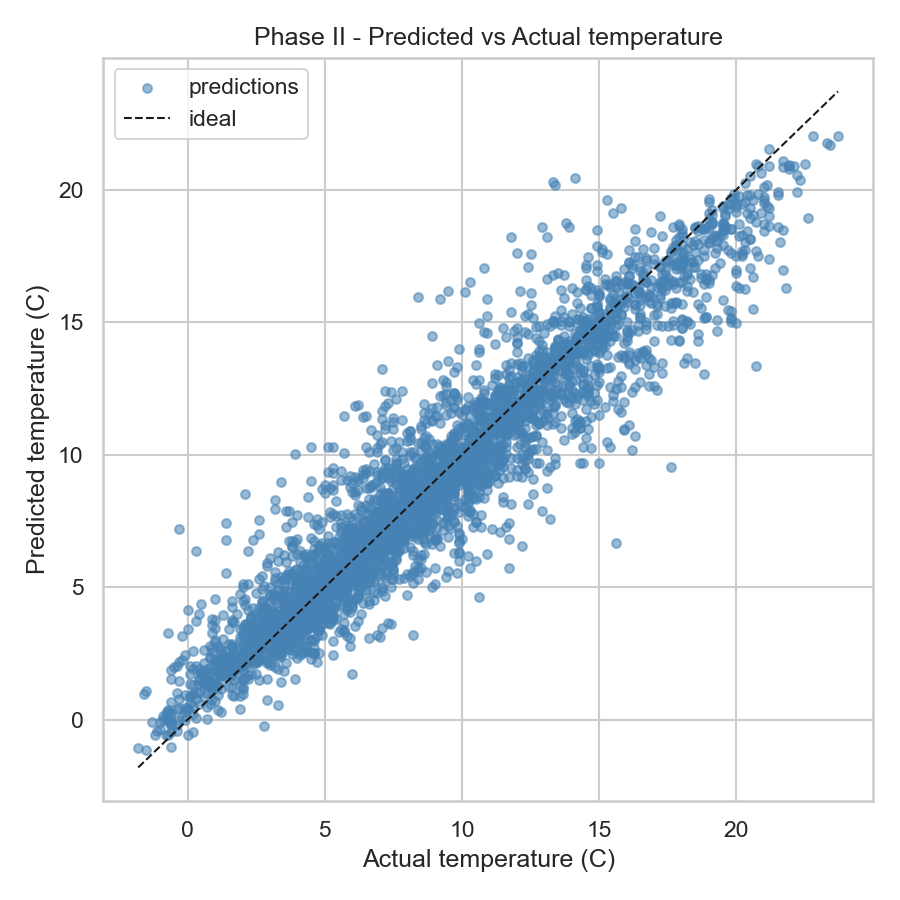
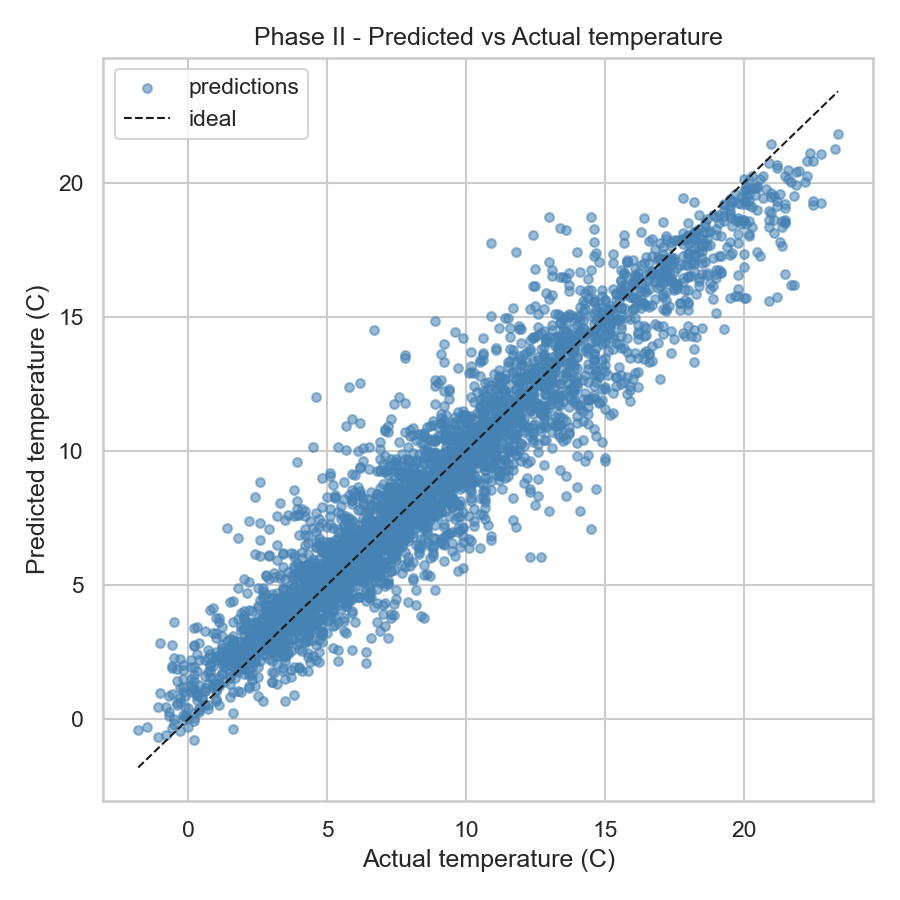
Last Updates

diff --git a/phase2_model_training.py b/phase2_model_training.py
@@ -37,18 +37,8 @@ log("=" * 70)
 df = pd.read_csv(DATA_PATH)
 df["datetime"] = pd.to_datetime(df["datetime"])
 
-df = df.rename(columns={
-    "temperature_2m":      "temperature",
-    "relative_humidity_2m": "humidity",
-    "surface_pressure":    "pressure",
-    "wind_speed_10m":      "wind_speed",
-    "wind_direction_10m":  "wind_deg",
-    "cloud_cover":         "clouds",
-    "precipitation":       "pop",
-})
-
-df = df.dropna(subset=["temperature", "humidity", "pressure"]).reset_index(drop=True)
-df["pop"] = df["pop"].fillna(0.0)
+df = df.dropna(subset=["temperature_2m", "relative_humidity_2m", "surface_pressure"]).reset_index(drop=True)
+df["precipitation"] = df["precipitation"].fillna(0.0)
 
 df["hour_sin"]  = np.sin(2 * np.pi * df["hour"]  / 24.0)
 df["hour_cos"]  = np.cos(2 * np.pi * df["hour"]  / 24.0)
@@ -56,18 +46,18 @@ df["month_sin"] = np.sin(2 * np.pi * df["month"] / 12.0)
 df["month_cos"] = np.cos(2 * np.pi * df["month"] / 12.0)
 
 FEATURES = [
-    "humidity", "pressure", "wind_speed", "wind_deg",
-    "clouds", "pop",
+    "relative_humidity_2m", "surface_pressure", "wind_speed_10m", "wind_direction_10m",
+    "cloud_cover", "precipitation",
     "hour_sin", "hour_cos", "month_sin", "month_cos",
 ]
-TARGET = "temperature"
+TARGET = "temperature_2m"
 
 log(f"Rows after cleaning : {len(df)}")
 log(f"Features ({len(FEATURES)})       : {FEATURES}")
 log(f"Target              : {TARGET} (deg C)")
 
-corr_cols = ["temperature", "humidity", "pressure", "wind_speed",
-             "clouds", "pop"]
+corr_cols = ["temperature_2m", "relative_humidity_2m", "surface_pressure", "wind_speed_10m",
+             "cloud_cover", "precipitation"]
 corr = df[corr_cols].corr()
 
 plt.figure(figsize=(7, 5))
@@ -78,7 +68,7 @@ plt.savefig(os.path.join(REPORTS_DIR, "phase2_correlation_heatmap.png"), dpi=150
 plt.close()
 
 log("\nStrongest absolute correlations with temperature:")
-log(corr["temperature"].drop("temperature").abs().sort_values(ascending=False).to_string())
+log(corr["temperature_2m"].drop("temperature_2m").abs().sort_values(ascending=False).to_string())
 
 X = df[FEATURES].values
 y = df[TARGET].values

diff --git a/weather_data_scraper.py b/weather_data_scraper.py
@@ -33,8 +33,6 @@ def get_resilient_session():
     return session
 
 def fetch_historical_weather():
-    # Open-Meteo Archive (ERA5) lags ~1 day behind real time, so we shift the
-    # end date back by 2 days to stay safely inside the allowed range.
     end_date = datetime.now().date() - timedelta(days=2)
     start_date = end_date - timedelta(days=31)
 
@@ -71,7 +69,6 @@ def fetch_historical_weather():
     if all_city_dataframes:
         df_final = pd.concat(all_city_dataframes, ignore_index=True)
 
-        # Cleanup
         df_final.rename(columns={'time': 'datetime'}, inplace=True)
         df_final['datetime'] = pd.to_datetime(df_final['datetime'])
         df_final["hour"] = df_final["datetime"].dt.hour
@@ -79,12 +76,17 @@ def fetch_historical_weather():
         df_final["month"] = df_final["datetime"].dt.month
         df_final["year"] = df_final["datetime"].dt.year
 
-        df_final = df_final.head(30000)
+        df_final = df_final.sort_values(["city", "datetime"]).reset_index(drop=True)
+        df_final = df_final.drop_duplicates(subset=["city", "datetime"]).reset_index(drop=True)
+
+        null_total = int(df_final.isna().sum().sum())
+        if null_total > 0:
+            logging.warning(f"Dataset contains {null_total} NaN cells — Phase II will apply defensive dropna/fillna.")
 
         file_name = "kosovo_weather_dataset.csv"
         df_final.to_csv(file_name, index=False)
-        
-        logging.info(f"✅ Success! Exact rows to {file_name}.")
+
+        logging.info(f"Saved {len(df_final)} rows to {file_name}.")
     else:
         logging.error("No data extracted.")
 

diff --git a/README.md b/README.md
@@ -43,7 +43,7 @@ A Machine Learning project that builds a complete, reproducible pipeline — fro
 
 | Phase | Title | Status |
 |-------|-------|--------|
-| I  | **Model Preparation** — data collection, cleaning, EDA, task definition | Completed |
+| I  | **Model Preparation** — data collection, cleaning, task definition | Completed |
 | II | **Model Training** — train a single supervised algorithm | Completed |
 | III | **Analysis and Evaluation** — evaluate, re-train, improve | Planned |
 
@@ -131,14 +131,12 @@ reports/
 
 `datetime`, `temperature_2m`, `relative_humidity_2m`, `apparent_temperature`, `precipitation`, `surface_pressure`, `cloud_cover`, `wind_speed_10m`, `wind_direction_10m`, `city`, `hour`, `day`, `month`, `year`.
 
-> During Phase II the meteorological columns are renamed to shorter canonical names used by the model pipeline: `temperature_2m` → `temperature`, `relative_humidity_2m` → `humidity`, `surface_pressure` → `pressure`, `wind_speed_10m` → `wind_speed`, `wind_direction_10m` → `wind_deg`, `cloud_cover` → `clouds`, `precipitation` → `pop`.
-
 ---
 
 ## About the Project
 
 ### The problem
-Accurate short-term temperature forecasts are essential for agriculture planning, energy demand prediction, public-health advisories, and daily citizen decisions. Commercial weather services provide generic forecasts, but **small, region-specific models tuned on local data** often capture micro-climatic behaviour (e.g. the urban-heat-island effect in Pristina, or the cooler mountain valleys around Dragash) more faithfully than global models.
+Accurate short-term temperature forecasts are essential for agriculture planning, energy demand prediction, public-health advisories, and daily citizen decisions. Commercial weather services provide generic forecasts, but **small, region-specific models tuned on local data** often capture micro-climatic behaviour more faithfully than global models.
 
 ### The idea
 Build a **supervised Machine-Learning pipeline** that ingests real meteorological data from the [Open-Meteo Archive API](https://open-meteo.com/en/docs/historical-weather-api) for all 27 municipalities of Kosovo and learns to **predict the air temperature** (°C) from other observable variables — humidity, pressure, wind speed, cloud coverage, precipitation, and the time of day.
@@ -166,7 +164,8 @@ Phase I lays the foundation of the whole project: **collecting, structuring, and
    - queries the `archive-api.open-meteo.com/v1/archive` endpoint for the last ~31 days,
    - requests hourly `temperature_2m`, `relative_humidity_2m`, `apparent_temperature`, `precipitation`, `surface_pressure`, `cloud_cover`, `wind_speed_10m`, `wind_direction_10m` (timezone `Europe/Belgrade`).
 4. **Persistence to CSV** as [`kosovo_weather_dataset.csv`](kosovo_weather_dataset.csv), automatically appending the columns `hour`, `day`, `month`, and `year` for temporal analysis.
-5. **Integrity verification** (no duplicates, no empty rows in the primary target columns — the dataset ships with **zero NaN** across all 14 columns).
+5. **Preprocessing inside the scraper** — deterministic sort by `(city, datetime)`, `drop_duplicates` on the `(city, datetime)` primary key, and a logged NaN count (see §Preprocessing Performed in Phase I below for the full list).
+6. **Integrity verification** — the dataset ships with **zero duplicates and zero NaN** across all 14 columns.
 
 ## Defined Machine-Learning Tasks
 
@@ -174,10 +173,8 @@ The dataset built in this phase is designed to support two main ML tasks across 
 
 | # | Task | Type | Target (output) | Main input features |
 |---|------|------|-----------------|---------------------|
-| 1 | Temperature forecasting | **Regression (supervised)** | `temperature` (°C, numeric) | humidity, pressure, clouds, wind_speed, cyclic time |
-| 2 | Sequential time-series forecasting | Time-series (future work) | `temperature[t+1]` | lagged multi-hour windows per city |
-
-> Note: the previous "weather-state classification" task depended on a categorical `weather` column produced by OpenWeatherMap. Open-Meteo's archive endpoint does not return that field, so that task has been dropped in favour of a single well-defined regression problem.
+| 1 | Temperature forecasting | **Regression (supervised)** | `temperature_2m` (°C, numeric) | `relative_humidity_2m`, `surface_pressure`, `cloud_cover`, `wind_speed_10m`, cyclic time |
+| 2 | Sequential time-series forecasting | Time-series (future work) | `temperature_2m[t+1]` | lagged multi-hour windows per city |
 
 ## Attribute Types
 
@@ -203,8 +200,6 @@ Out of 14 total columns, the structural split is:
 | `cloud_cover` (%) | 0 | 64.49 | 39.58 | 100 |
 | `precipitation` (mm) | 0.00 | 0.06 | 0.28 | 5.50 |
 
-> `surface_pressure` is reported at station altitude (not sea-level adjusted), which is why the mean sits below the standard 1013 hPa — many Kosovo stations sit hundreds of metres above sea level.
-
 ## Missing Values
 
 | Column | Missing | Treatment |
@@ -213,25 +208,26 @@ Out of 14 total columns, the structural split is:
 
 **Total NaN in the dataset: 0 / (20,736 × 14 = 290,304 cells) → 0.00 %** — the Open-Meteo archive returns fully-populated hourly records.
 
+## Preprocessing Performed in Phase I
+
+The following preprocessing steps run automatically inside [`weather_data_scraper.py`](weather_data_scraper.py) after the API responses are concatenated, producing a model-ready CSV:
+
+1. **Datetime parsing** — the raw `time` column is renamed to `datetime` and converted to `pandas` datetime.
+2. **Temporal feature derivation** — `hour`, `day`, `month`, and `year` are extracted from `datetime` for later cyclic encoding in Phase II.
+3. **Deterministic ordering** — rows are sorted by `(city, datetime)` so every downstream step (including the Phase III chronological split) is reproducible.
+4. **Deduplication** — `drop_duplicates(subset=["city", "datetime"])` guarantees a unique hour-per-city primary key; the scraper logs how many duplicates were removed (currently 0).
+5. **Null verification** — total NaN count is logged; the scraper emits a warning if any cell is null, so the downstream pipeline can trigger its defensive imputation.
+
+Further transformations — cyclic encoding of `hour`/`month` via `sin/cos`, and `StandardScaler` fit on the training partition — are deferred to Phase II, where they belong logically next to the model fit.
+
 ## Why these attributes?
 
 - **Core meteorological variables** (`temperature_2m`, `relative_humidity_2m`, `surface_pressure`, `wind_speed_10m`, `wind_direction_10m`, `cloud_cover`) — standard physical inputs for atmospheric modelling.
 - **`apparent_temperature`** — "feels-like" temperature, useful as a sanity reference and for later multi-target experiments.
-- **`precipitation`** (mm in the last hour) — ground-truth rainfall; replaces the probabilistic `pop` field from the old OpenWeatherMap pipeline and is renamed to `pop` inside the training script for pipeline compatibility.
+- **`precipitation`** (mm in the last hour) — ground-truth rainfall from the Open-Meteo archive, used directly in the model pipeline.
 - **`hour`, `day`, `month`, `year`** — automatically derived to capture **temporal cycles** (diurnal / seasonal); `hour` and `month` are later encoded cyclically with `sin / cos`.
 - **`city`** — enables per-city modelling or regional climate grouping.
 - **lat / lon coordinates** are not stored in the CSV because they are static per city and can be re-joined from `weather_data_scraper.py`.
-
-## Phase I Outcome
-
-A complete, clean, and well-structured foundation for Kosovo weather modelling:
-- **20,736 instances × 14 attributes**, with **0 % NaN** (no imputation required),
-- **2 ML tasks clearly defined** (regression now, time-series as future work),
-- descriptive statistics fully documented for all numeric attributes,
-- a supervised regression algorithm selected and justified,
-- ready to be trained in Phase II without requiring further major cleaning.
-
----
 
 ## Dataset Overview and Exploratory Insights
 
@@ -326,8 +322,6 @@ A complete, clean, and well-structured foundation for Kosovo weather modelling:
 
 ## Selected Algorithm
 
-In accordance with the professor's brief (*"Students must implement **any one** of the applicable ML algorithms..."*), the project focuses on a **single algorithm**: **Random Forest Regressor** — an ensemble of decision trees for regression (supervised learning).
-
 | Phase | Random Forest Configuration | Status |
 |-------|----------------------------|--------|
 | Phase I | Data preparation + algorithm selection (no training yet) | Completed |
@@ -378,16 +372,6 @@ Three visualisations are produced during training:
 | **No feature scaling required** | Trees are scale-invariant — this simplifies the pipeline and reduces the risk of pre-processing mistakes. |
 | **Interpretability** | Provides built-in **feature importances**, helping verify that the model learned physically meaningful relationships, not artefacts. |
 
-## Data Preprocessing
-
-1. **Rename Open-Meteo columns** to the canonical model names (`temperature_2m` → `temperature`, `relative_humidity_2m` → `humidity`, `surface_pressure` → `pressure`, `wind_speed_10m` → `wind_speed`, `wind_direction_10m` → `wind_deg`, `cloud_cover` → `clouds`, `precipitation` → `pop`).
-2. **Drop rows with missing values** in `temperature`, `humidity`, `pressure` (defensive; the current dataset has none).
-3. **Fill `pop`** with `0.0` as a safety net (no-ops on the current CSV where every hour already has a precipitation value).
-4. **Cyclic encoding of time** using `sin / cos` for `hour` and `month`:
-   - Reason: `23:00` and `00:00` are adjacent in time but appear numerically far apart. `sin / cos` preserves the cyclic adjacency.
-5. **80 / 20 train / test split** with `random_state = 42` for reproducibility.
-6. **`StandardScaler`** is fitted on the training set and saved for future pipeline compatibility; Random Forest itself does not require scaling.
-
 ### Split sizes
 
 | Split | Row count | Share |
@@ -398,21 +382,21 @@ Three visualisations are produced during training:
 
 ### Input features (10)
 
-`humidity, pressure, wind_speed, wind_deg, clouds, pop, hour_sin, hour_cos, month_sin, month_cos`
+`relative_humidity_2m, surface_pressure, wind_speed_10m, wind_direction_10m, cloud_cover, precipitation, hour_sin, hour_cos, month_sin, month_cos`
 
-**Target:** `temperature` (°C, numeric).
+**Target:** `temperature_2m` (°C, numeric).
 
 ## Correlation heat-map (produced during training)
 
 ![Correlation Heatmap](reports/phase2_correlation_heatmap.png)
 
-| Feature | \|corr\| with `temperature` |
+| Feature | \|corr\| with `temperature_2m` |
 |---------|-----------------------------|
-| `humidity`   | **0.684** (strongest) |
-| `pressure`   | 0.318 |
-| `wind_speed` | 0.161 |
-| `clouds`     | 0.138 |
-| `pop`        | 0.133 |
+| `relative_humidity_2m`   | **0.672** (strongest) |
+| `surface_pressure`       | 0.315 |
+| `wind_speed_10m`         | 0.137 |
+| `precipitation`          | 0.128 |
+| `cloud_cover`            | 0.123 |
 
 Humidity is the strongest predictor — a physically expected result, since warmer air typically holds less relative humidity.
 
@@ -432,10 +416,10 @@ The baseline configuration is a deliberately *simple* Random Forest — reasonab
 
 | Metric | Value |
 |--------|-------|
-| MAE (test)  | **1.082 °C** |
-| RMSE (test) | **1.564 °C** |
-| R² (train)  | 0.9857 |
-| R² (test)   | **0.9003** |
+| MAE (test)  | **1.041 °C** |
+| RMSE (test) | **1.478 °C** |
+| R² (train)  | 0.9863 |
+| R² (test)   | **0.9069** |
 
 ### Predicted vs. Actual
 
@@ -449,24 +433,24 @@ The points cluster tightly along the ideal diagonal (dashed line) — the model 
 
 | Feature | Importance |
 |---------|-----------|
-| `humidity`   | **0.474** |
-| `month_cos`  | 0.097 |
-| `month_sin`  | 0.095 |
-| `pressure`   | 0.069 |
-| `hour_cos`   | 0.062 |
-| `hour_sin`   | 0.057 |
-| `wind_deg`   | 0.050 |
-| `clouds`     | 0.050 |
-| `wind_speed` | 0.041 |
-| `pop`        | 0.005 |
+| `relative_humidity_2m` | **0.468** |
+| `month_cos`            | 0.101 |
+| `month_sin`            | 0.087 |
+| `surface_pressure`     | 0.071 |
+| `hour_cos`             | 0.066 |
+| `hour_sin`             | 0.063 |
+| `wind_direction_10m`   | 0.050 |
+| `cloud_cover`          | 0.049 |
+| `wind_speed_10m`       | 0.041 |
+| `precipitation`        | 0.005 |
 
- Humidity dominates the temperature prediction, followed by the seasonal (`month_*`) and diurnal (`hour_*`) cyclic features — a physically sensible ranking for a 31-day, hourly dataset that straddles a seasonal transition. `pop` is near-zero because precipitation rarely drives temperature on an hour-by-hour basis.
+ Humidity dominates the temperature prediction, followed by the seasonal (`month_*`) and diurnal (`hour_*`) cyclic features — a physically sensible ranking for a 31-day, hourly dataset that straddles a seasonal transition. `precipitation` is near-zero because rainfall rarely drives temperature on an hour-by-hour basis.
 
 ### Note on the evaluation split
 
 Phase II uses a **random 80 / 20 train/test split**, which is the standard practice for supervised regression tasks. However, because the dataset is hourly and strongly autocorrelated in time, a random split lets adjacent hours of the same city end up on opposite sides of the partition (e.g. Pristina at 04:00 in train, Pristina at 05:00 in test). These neighbouring rows have nearly identical temperatures, which gives the model an easier task than it would face in production.
 
-The practical consequence is a **mild temporal leakage**: the Phase II metrics (MAE ≈ 1.08 °C, R² ≈ 0.90) should be read as the **upper bound** of the model's true generalisation capability, not as the honest forecasting error.
+The practical consequence is a **mild temporal leakage**: the Phase II metrics (MAE ≈ 1.04 °C, R² ≈ 0.91) should be read as the **upper bound** of the model's true generalisation capability, not as the honest forecasting error.
 
 This is an expected limitation of the Phase II baseline, not a defect — a diagnostic regression does not need a forecasting-grade split. Phase III re-evaluates the same model on a **chronological hold-out** (train on the first ~25 days, test on the last ~6 days — see §A.2 of the Phase III plan) to measure the true forecasting skill. The gap between the random-split metrics and the chronological-split metrics quantifies the leakage.
 
@@ -474,7 +458,7 @@ This is an expected limitation of the Phase II baseline, not a defect — a diag
 
 1. **A single supervised algorithm — Random Forest Regressor — was successfully trained**.
 2. The **train / test split (16,588 / 4,148)** is explicit and reproducible.
-3. The trained model achieves **MAE = 1.08 °C** and **R² (test) = 0.90** on held-out data.
+3. The trained model achieves **MAE = 1.04 °C** and **R² (test) = 0.91** on held-out data.
 4. The **feature-importance ranking is physically interpretable**, confirming the model learned meaningful signal (humidity + seasonal/diurnal cycles dominate).
 5. All artifacts (trained model, scaler, training log, plots) are serialised in [`models/`](models/) and [`reports/`](reports/), ready for the next phase.
 6. The random-split evaluation is acknowledged as an **upper bound** on the true error; Phase III will re-measure the model with a chronological hold-out to quantify and remove the temporal leakage.
@@ -495,8 +479,8 @@ Phase III re-evaluates the Phase II model with a rigorous protocol, re-trains it
 - **Learning curves** — MAE / R² vs training-set size to check whether more data would still help.
 - **Permutation importance** — replaces the impurity-based ranking, which over-rewards high-cardinality features.
 - **Hyperparameter tuning** — GridSearchCV over `n_estimators`, `max_depth`, `min_samples_leaf`, `min_samples_split`, `max_features`.
-- **Lag features** (biggest win) — `temp_lag_1h`, `temp_lag_3h`, `temp_lag_24h`, `humidity_lag_1h`, `pressure_lag_1h`, built per city on chronologically-sorted data.
-- **Rolling / delta / interaction features** — 3 h / 24 h rolling mean & std, pressure & humidity deltas, physical interactions (`humidity × clouds`).
+- **Lag features** (biggest win) — 1-hour, 3-hour, and 24-hour lags of `temperature_2m`, `relative_humidity_2m`, and `surface_pressure`, built per city on chronologically-sorted data.
+- **Rolling / delta / interaction features** — 3 h / 24 h rolling mean & std of `temperature_2m`, `relative_humidity_2m`, `surface_pressure`; short-term deltas of pressure and humidity; physical interactions such as `relative_humidity_2m × cloud_cover`.
 - **Per-city encoding** — one-hot or target encoding so the model distinguishes Pristina from Dragash.
 - **Baseline comparison** — Random Forest vs global mean, per-city mean, 1-hour persistence, and linear regression.
 - **Multi-horizon evaluation** — report final MAE at +1 h, +3 h, +6 h, +12 h, +24 h, +48 h.
